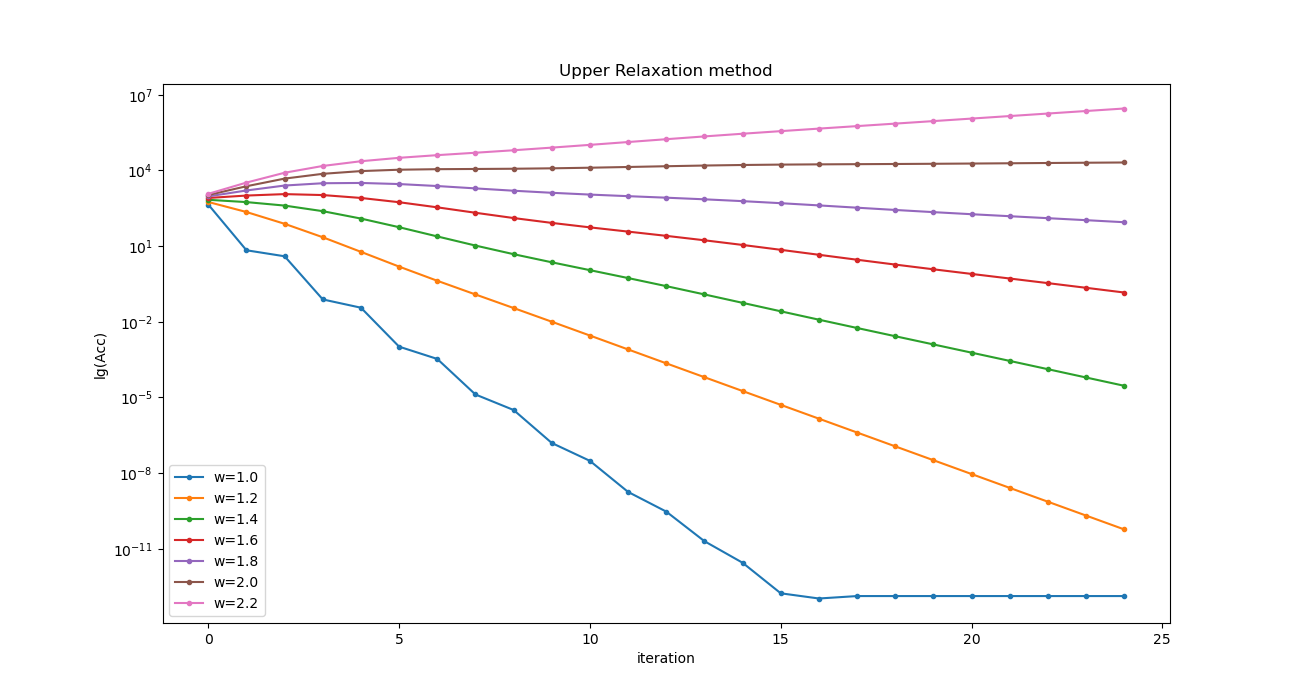
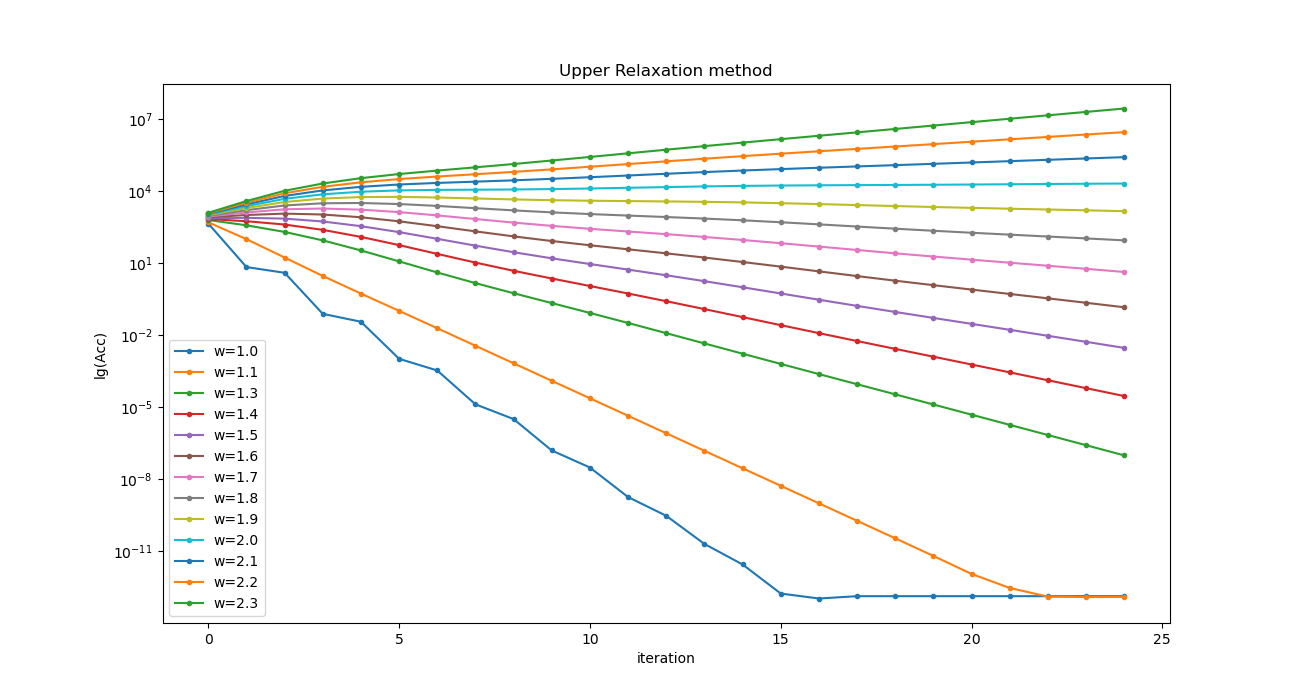
lab 2: fix plot

diff --git a/t2/lin_eq_sys.py b/t2/lin_eq_sys.py
@@ -232,7 +232,7 @@ plot_error("Jacoby method", errs)
 # 5) For upper relaxation method we need to 'guess' optimal w
 data = []
 names = []
-for w in np.arange(1.0, 2.2, 0.2):
+for w in np.arange(1.0, 2.2, 0.1):
     w = math.ceil(w * 10) / 10
     x, dt = upper_relaxation(A, b, w, ITER)
     data.append(dt)
